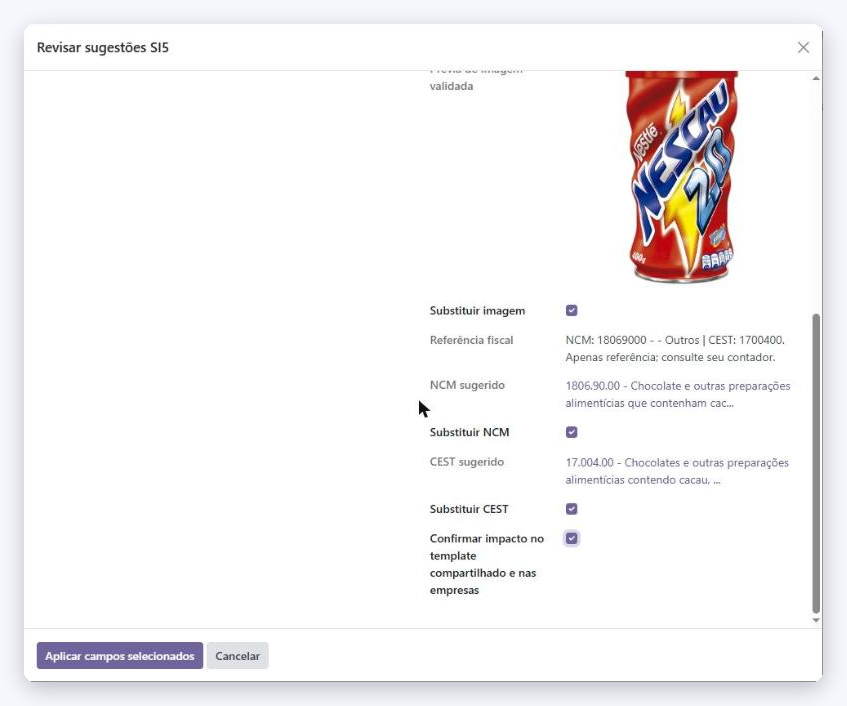
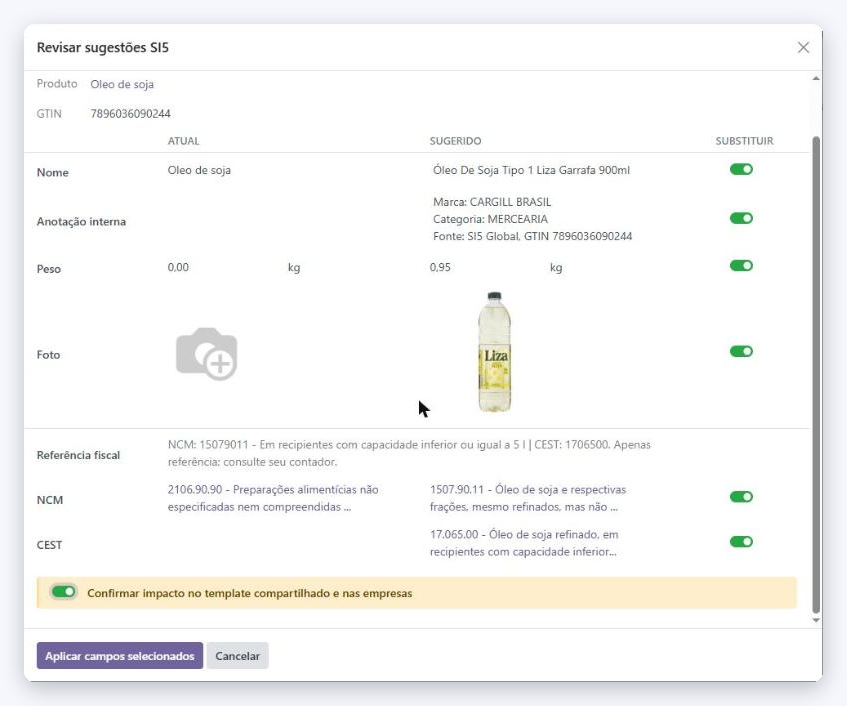
Review wizard layout: one row per field (current | suggested | replace)
- boolean toggles, current picture next to the preview, fiscal rows
- shared-data confirmation shown only when needed
- standard form markup only (no custom JS/CSS)
- pt_BR translations, new store screenshots, usage docs

diff --git a/product_si5_gtin/static/description/index.html b/product_si5_gtin/static/description/index.html
@@ -31,7 +31,7 @@
         <div style="flex:1 1 300px;background:#fff;border:1px solid #e5eaf3;border-radius:20px;padding:26px 26px 22px;box-shadow:0 10px 30px -18px rgba(8,17,40,.25);">
             <div style="width:44px;height:44px;border-radius:12px;background:#e0f3f3;color:#00767b;font-size:22px;font-weight:800;display:flex;align-items:center;justify-content:center;">2</div>
             <h3 style="font-size:20px;margin:16px 0 8px;color:#081128;">You decide</h3>
-            <p style="margin:0;font-size:15.5px;line-height:1.6;color:#4a5568;">Current × suggested, side by side. <b>Nothing comes pre-selected</b>: tick only what you want to replace.</p>
+            <p style="margin:0;font-size:15.5px;line-height:1.6;color:#4a5568;">Current × suggested, side by side. <b>Nothing comes pre-selected</b>: switch on only what you want to replace.</p>
         </div>
         <div style="flex:1 1 300px;background:#fff;border:1px solid #e5eaf3;border-radius:20px;padding:26px 26px 22px;box-shadow:0 10px 30px -18px rgba(8,17,40,.25);">
             <div style="width:44px;height:44px;border-radius:12px;background:#fff1e0;color:#b45309;font-size:22px;font-weight:800;display:flex;align-items:center;justify-content:center;">3</div>
@@ -70,7 +70,7 @@
         <div style="flex:1 1 320px;min-width:260px;">
             <span style="display:inline-block;background:#fff1e0;color:#b45309;font-weight:700;font-size:13px;letter-spacing:.06em;text-transform:uppercase;padding:6px 12px;border-radius:999px;">Step 3</span>
             <h2 style="font-size:28px;line-height:1.2;margin:14px 0 10px;color:#081128;">Only the selected fields are saved</h2>
-            <p style="font-size:16.5px;line-height:1.65;color:#4a5568;margin:0;">The fields you ticked are written to the product; everything else stays as it was. WebP pictures are converted so Odoo thumbnails and PDF reports work. Prices, taxes, fiscal type and other settings are not changed.</p>
+            <p style="font-size:16.5px;line-height:1.65;color:#4a5568;margin:0;">The fields you switched on are written to the product; everything else stays as it was. WebP pictures are converted so Odoo thumbnails and PDF reports work. Prices, taxes, fiscal type and other settings are not changed.</p>
         </div>
         <div style="flex:2 1 520px;min-width:280px;">
             <img src="screenshot_4_result.png" alt="Product after applying the selected fields" style="width:100%;border-radius:14px;border:1px solid #e5eaf3;box-shadow:0 18px 40px -20px rgba(8,17,40,.35);"/>
@@ -82,7 +82,7 @@
     <div style="display:flex;flex-wrap:wrap;gap:20px;margin:24px 0;">
         <div style="flex:1 1 440px;background:#f5f7fc;border-radius:20px;padding:30px;">
             <h3 style="font-size:22px;margin:0 0 6px;color:#081128;">What this module fills</h3>
-            <p style="margin:0 0 12px;font-size:14.5px;color:#647087;">Always as a suggestion, only when the field is ticked.</p>
+            <p style="margin:0 0 12px;font-size:14.5px;color:#647087;">Always as a suggestion, only when its switch is on.</p>
             <ul style="margin:0;padding-left:20px;font-size:15.5px;line-height:1.9;color:#2d3748;">
                 <li>Product name</li>
                 <li>Internal note with brand, category and source</li>
@@ -111,7 +111,7 @@
             <div style="flex:1 1 440px;">
                 <ul style="margin:0;padding-left:20px;font-size:15.5px;line-height:1.85;color:#2d3748;">
                     <li><b>Lookup:</b> one HTTPS request from the Odoo server with the <b>barcode</b> (GTIN) of the product, the <b>company token</b> and a User-Agent naming this module.</li>
-                    <li><b>Picture:</b> only after you click <i>Confirm download</i>, one HTTPS request to the SI5 picture server, without the token.</li>
+                    <li><b>Picture:</b> only after you click <i>Download and preview</i>, one HTTPS request to the SI5 picture server, without the token.</li>
                     <li>Requests run only when a user clicks the button. Nothing runs in the background.</li>
                 </ul>
             </div>

diff --git a/product_si5_gtin/models.py b/product_si5_gtin/models.py
@@ -153,6 +153,9 @@ class Si5Lookup(models.TransientModel):
         related="product_id.weight", readonly=True, string="Current weight"
     )
     weight_uom_name = fields.Char(related="product_id.weight_uom_name")
+    current_image = fields.Binary(
+        related="product_id.image_128", readonly=True, string="Current picture"
+    )
     proposed_name = fields.Char(string="Suggested name")
     proposed_description = fields.Text(string="Suggested description")
     proposed_weight = fields.Float(

diff --git a/product_si5_gtin_l10n_br_fiscal/__manifest__.py b/product_si5_gtin_l10n_br_fiscal/__manifest__.py
@@ -2,7 +2,7 @@
 # License AGPL-3.0 or later (https://www.gnu.org/licenses/agpl).
 {
     "name": "Product SI5 GTIN lookup - Brazilian fiscal data",
-    "version": "18.0.1.0.0",
+    "version": "18.0.1.1.0",
     "summary": "Apply reviewed NCM and CEST from SI5 Global to l10n_br_fiscal products",
     "author": "SI5",
     "license": "AGPL-3",

diff --git a/product_si5_gtin/__manifest__.py b/product_si5_gtin/__manifest__.py
@@ -2,7 +2,7 @@
 # License AGPL-3.0 or later (https://www.gnu.org/licenses/agpl).
 {
     "name": "Product SI5 GTIN lookup",
-    "version": "18.0.2.0.0",
+    "version": "18.0.2.1.0",
     "summary": "Look up a product by GTIN on SI5 Global and apply reviewed data",
     "author": "SI5",
     "license": "AGPL-3",

diff --git a/product_si5_gtin/README.rst b/product_si5_gtin/README.rst
@@ -42,11 +42,12 @@ Usage
 
 #. Open a product (or the specific variant) with a barcode and click
    **Look up GTIN with SI5**.
-#. Compare current and suggested values. Tick only the fields to replace.
-#. For the image, click **Confirm download and preview image**, check it, then
-   tick **Replace image**.
-#. Name and description belong to the product template: tick the confirmation
-   about shared data, then **Apply selected fields**.
+#. Each row shows current and suggested values. Turn on **Replace** only for
+   the fields you want.
+#. For the image, click **Download and preview**, check it, then
+   turn on **Replace** in the picture row.
+#. Name, internal note, NCM and CEST belong to the product template: turn on the
+   confirmation about shared data, then **Apply selected fields**.
 
 If the product changes after the lookup, run it again. A review can be applied
 once. Restricted circulation codes (prefixes 2xx, 040-049) are rejected.

diff --git a/product_si5_gtin/readme/USAGE.md b/product_si5_gtin/readme/USAGE.md
@@ -1,10 +1,11 @@
 1. Open a product (or the specific variant) with a barcode and click
    **Look up GTIN with SI5**.
-2. Compare current and suggested values. Tick only the fields to replace.
-3. For the image, click **Confirm download and preview image**, check it, then
-   tick **Replace image**.
-4. Name and description belong to the product template: tick the confirmation
-   about shared data, then **Apply selected fields**.
+2. Each row shows current and suggested values. Turn on **Replace** only for
+   the fields you want.
+3. For the image, click **Download and preview**, check it, then
+   turn on **Replace** in the picture row.
+4. Name, internal note, NCM and CEST belong to the product template: turn on the
+   confirmation about shared data, then **Apply selected fields**.
 
 If the product changes after the lookup, run it again. A review can be applied
 once. Restricted circulation codes (prefixes 2xx, 040–049) are rejected.
